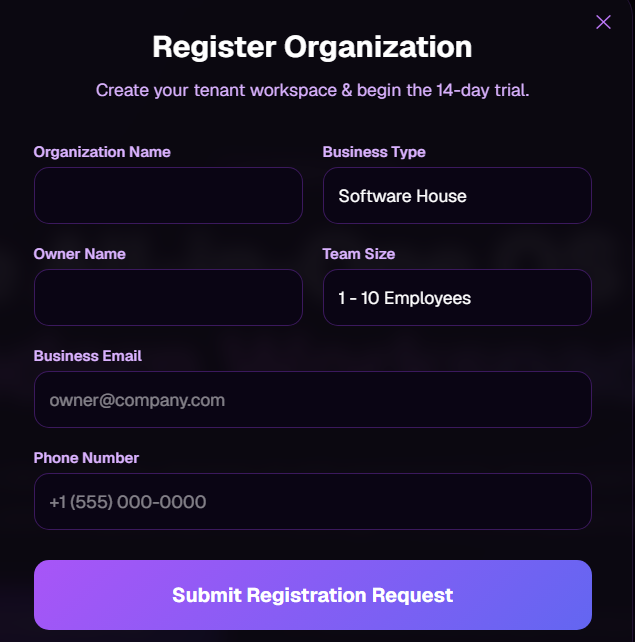
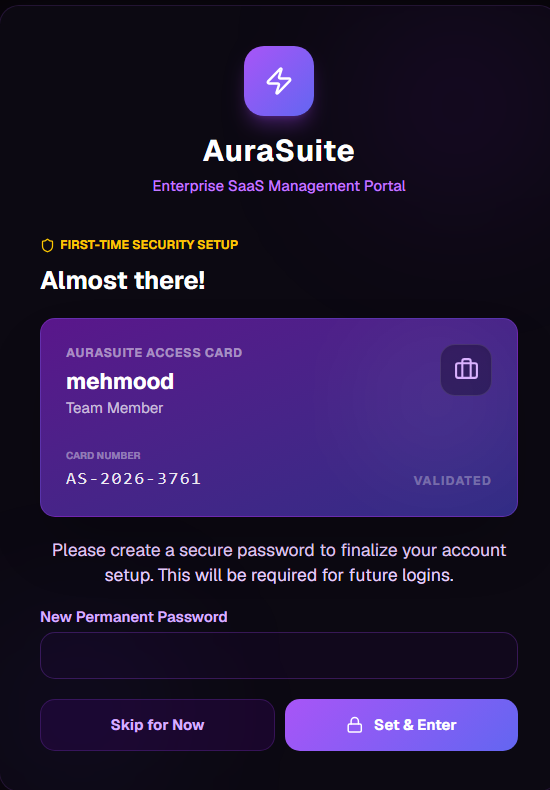
style: Fix 3D text animation, add real dashboard screenshots, make policy boxes equal height, update footer

diff --git a/frontend/app/page.js b/frontend/app/page.js
@@ -91,9 +91,9 @@ export default function LandingPage() {
       <div className="fixed inset-0 z-0 pointer-events-none transition-all duration-1000 ease-in-out">
         {bgImages.map((src, i) => (
           <img key={src} src={src} alt="Luxury Office Background" 
-               className={`absolute inset-0 w-full h-full object-cover transition-opacity duration-1000 object-center ${bgIndex === i ? 'opacity-20' : 'opacity-0'}`} />
+               className={`absolute inset-0 w-full h-full object-cover transition-opacity duration-1000 object-center ${bgIndex === i ? 'opacity-60' : 'opacity-0'}`} />
         ))}
-        <div className="absolute inset-0 bg-gradient-to-b from-[#05010a]/80 via-[#05010a]/90 to-[#05010a]"></div>
+        <div className="absolute inset-0 bg-gradient-to-b from-[#05010a]/50 via-[#05010a]/70 to-[#05010a]"></div>
       </div>
       
       <div className="fixed top-[-20%] left-[-10%] w-[50%] h-[50%] bg-purple-700/20 rounded-full blur-[150px] pointer-events-none z-0" />
@@ -111,6 +111,11 @@ export default function LandingPage() {
               @keyframes spin-slow {
                 0% { transform: rotateY(0deg); }
                 100% { transform: rotateY(360deg); }
+              }
+              @keyframes float-3d {
+                0% { transform: perspective(1000px) rotateX(15deg) rotateY(-10deg) translateZ(0px); }
+                50% { transform: perspective(1000px) rotateX(-5deg) rotateY(15deg) translateZ(30px); }
+                100% { transform: perspective(1000px) rotateX(15deg) rotateY(-10deg) translateZ(0px); }
               }
             `}</style>
           </div>
@@ -143,15 +148,20 @@ export default function LandingPage() {
           AuraSuite Premium is Live
         </div>
         
-        <h1 className="text-5xl md:text-7xl font-extrabold tracking-tight mb-8 leading-[1.1] flex flex-col items-center justify-center" style={{ textShadow: '0 10px 30px rgba(0,0,0,0.5)' }}>
-          The Ultimate OS for <br/>
-          <span className="text-transparent bg-clip-text bg-gradient-to-r from-purple-400 via-fuchsia-400 to-indigo-400" 
-                style={{ display: 'inline-block', transformStyle: 'preserve-3d', animation: 'spin-slow 8s linear infinite', padding: '10px 0' }}>
+        <h1 className="text-5xl md:text-7xl font-extrabold tracking-tight mb-8 leading-[1.1] flex flex-col items-center justify-center relative z-20">
+          <span style={{ textShadow: '0 10px 30px rgba(0,0,0,0.8)' }}>The Ultimate OS for</span> <br/>
+          <span className="text-transparent bg-clip-text bg-gradient-to-br from-purple-400 via-fuchsia-300 to-indigo-500 font-black tracking-wide" 
+                style={{ 
+                  display: 'inline-block', 
+                  animation: 'float-3d 6s ease-in-out infinite', 
+                  padding: '20px 0',
+                  filter: 'drop-shadow(0 20px 20px rgba(147, 51, 234, 0.4)) drop-shadow(0 0 10px rgba(255, 255, 255, 0.2))' 
+                }}>
             AuraSuite
           </span>
         </h1>
         
-        <p className="text-lg md:text-xl text-purple-200/80 max-w-3xl mx-auto mb-10 leading-relaxed font-light">
+        <p className="text-lg text-purple-200/90 max-w-2xl mx-auto mb-10 leading-relaxed font-medium" style={{ textShadow: '0 2px 10px rgba(0,0,0,0.8)' }}>
           Experience world-class software house management. From client vaults and AI metrics to strict access control and real-time activity tracking, packed in a breathtaking glassmorphism design.
         </p>
 
@@ -228,98 +238,140 @@ export default function LandingPage() {
         </div>
       </section>
 
-      {/* ── PORTALS SHOWCASE ── */}
-      <section id="features" className="py-24 px-6 relative z-10">
-        <div className="max-w-7xl mx-auto">
-          <div className="text-center mb-16">
-            <h2 className="text-3xl md:text-5xl font-bold mb-4">Three Interconnected Portals</h2>
-            <p className="text-purple-300">Dedicated interfaces designed specifically for your Admins, Workers, and Clients.</p>
+      {/* ── FEATURES SECTION (Three Interconnected Portals) ── */}
+      <section id="features" className="py-24 px-6 relative z-10 bg-[#0a0514]">
+        <div className="max-w-7xl mx-auto text-center mb-16">
+          <h2 className="text-3xl md:text-5xl font-bold mb-4">Three Interconnected Portals</h2>
+          <p className="text-purple-300">Dedicated interfaces designed specifically for your Admins, Workers, and Clients, packed with industry-leading features.</p>
+        </div>
+        
+        <div className="max-w-6xl mx-auto grid grid-cols-1 md:grid-cols-3 gap-8">
+          <div className="bg-[#11081c] border border-purple-500/20 rounded-2xl p-8 hover:border-purple-500/50 transition-all hover:transform hover:-translate-y-2 flex flex-col h-full shadow-[0_10px_30px_rgba(0,0,0,0.5)]">
+            <div className="w-12 h-12 rounded-xl bg-purple-900/30 flex items-center justify-center mb-6 border border-purple-500/30">
+              <Server className="text-purple-400" />
+            </div>
+            <h3 className="text-xl font-bold text-white mb-4">Admin Master Cabinet</h3>
+            <p className="text-sm text-purple-200/80 leading-relaxed mb-4">
+              Complete oversight over your entire organization. Manage users, track active sessions, and oversee operations in real-time.
+            </p>
+            <ul className="text-sm text-purple-300/90 space-y-2 list-disc pl-4 mt-auto">
+              <li>Live Active User Logs & Session Tracking</li>
+              <li>Zoom-like Master WebRTC Video Controls</li>
+              <li>AI-Suggested Payment & Salary Adjustments</li>
+              <li>Dynamic Department & Team Size Management</li>
+            </ul>
           </div>
 
-          <div className="grid grid-cols-1 md:grid-cols-3 gap-8">
-            <div className="bg-gradient-to-b from-[#11081c] to-[#0a0514] border border-purple-500/20 rounded-3xl p-8 hover:border-purple-400/50 transition-colors">
-              <div className="w-12 h-12 rounded-xl bg-purple-900/50 flex items-center justify-center mb-6 border border-purple-500/30">
-                <Server className="text-purple-300" />
-              </div>
-              <h3 className="text-xl font-bold text-white mb-3">Admin Master Cabinet</h3>
-              <p className="text-sm text-purple-200/80 mb-6">Complete oversight with live active user logs, Zoom-like master meeting controls, and AI-suggested payment adjustments.</p>
+          <div className="bg-[#11081c] border border-indigo-500/20 rounded-2xl p-8 hover:border-indigo-500/50 transition-all hover:transform hover:-translate-y-2 flex flex-col h-full shadow-[0_10px_30px_rgba(0,0,0,0.5)]">
+            <div className="w-12 h-12 rounded-xl bg-indigo-900/30 flex items-center justify-center mb-6 border border-indigo-500/30">
+              <Shield className="text-indigo-400" />
             </div>
+            <h3 className="text-xl font-bold text-white mb-4">Worker Portal</h3>
+            <p className="text-sm text-purple-200/80 leading-relaxed mb-4">
+              A dedicated, distraction-free environment for your employees to work, track their hours, and securely communicate.
+            </p>
+            <ul className="text-sm text-purple-300/90 space-y-2 list-disc pl-4 mt-auto">
+              <li>Digital Access Card Authentication (Gold/Silver)</li>
+              <li>Dynamic AI Technical Onboarding Quizzes</li>
+              <li>Real-time Secure Personal DM Chats</li>
+              <li>Automated Hours Tracking & Auto-Lock</li>
+            </ul>
+          </div>
 
-            <div className="bg-gradient-to-b from-[#11081c] to-[#0a0514] border border-purple-500/20 rounded-3xl p-8 hover:border-purple-400/50 transition-colors">
-              <div className="w-12 h-12 rounded-xl bg-indigo-900/50 flex items-center justify-center mb-6 border border-indigo-500/30">
-                <Shield className="text-indigo-300" />
-              </div>
-              <h3 className="text-xl font-bold text-white mb-3">Worker Portal</h3>
-              <p className="text-sm text-purple-200/80 mb-6">Digital Access Card authentication, dynamic AI technical onboarding quizzes, and real-time personal DM chats.</p>
+          <div className="bg-[#11081c] border border-pink-500/20 rounded-2xl p-8 hover:border-pink-500/50 transition-all hover:transform hover:-translate-y-2 flex flex-col h-full shadow-[0_10px_30px_rgba(0,0,0,0.5)]">
+            <div className="w-12 h-12 rounded-xl bg-pink-900/30 flex items-center justify-center mb-6 border border-pink-500/30">
+              <Cloud className="text-pink-400" />
             </div>
-
-            <div className="bg-gradient-to-b from-[#11081c] to-[#0a0514] border border-purple-500/20 rounded-3xl p-8 hover:border-purple-400/50 transition-colors">
-              <div className="w-12 h-12 rounded-xl bg-fuchsia-900/50 flex items-center justify-center mb-6 border border-fuchsia-500/30">
-                <Cloud className="text-fuchsia-300" />
-              </div>
-              <h3 className="text-xl font-bold text-white mb-3">Client Sandbox</h3>
-              <p className="text-sm text-purple-200/80 mb-6">Live in-app project staging previews, AI-generated daily summaries, and secure payment-gated file unlocking.</p>
-            </div>
+            <h3 className="text-xl font-bold text-white mb-4">Client Sandbox</h3>
+            <p className="text-sm text-purple-200/80 leading-relaxed mb-4">
+              Give your clients complete transparency with a premium sandbox to view project progress, invoices, and milestones.
+            </p>
+            <ul className="text-sm text-purple-300/90 space-y-2 list-disc pl-4 mt-auto">
+              <li>Live In-App Project Staging Previews</li>
+              <li>AI-Generated Daily Progress Summaries</li>
+              <li>Secure Payment-Gated File Unlocking</li>
+              <li>Direct Encrypted Chat with Admins</li>
+            </ul>
           </div>
         </div>
       </section>
 
       {/* ── PRIVACY & RULES SECTION ── */}
       <section id="privacy" className="py-24 px-6 relative z-10 bg-gradient-to-t from-[#0a0514] to-[#11081c]/50">
-        <div className="max-w-5xl mx-auto grid grid-cols-1 md:grid-cols-2 gap-12 items-start">
-          <div className="bg-[#11081c] border border-red-500/20 rounded-3xl p-10 shadow-[0_0_40px_rgba(239,68,68,0.05)]">
+        <div className="max-w-6xl mx-auto grid grid-cols-1 md:grid-cols-2 gap-8 items-stretch">
+          
+          <div className="bg-[#11081c] border border-red-500/30 rounded-3xl p-10 shadow-[0_0_40px_rgba(239,68,68,0.1)] flex flex-col h-full">
             <div className="flex items-center gap-4 mb-6">
               <div className="w-12 h-12 rounded-xl bg-red-900/30 flex items-center justify-center border border-red-500/30">
                 <Shield className="text-red-400" />
               </div>
               <h2 className="text-2xl font-bold text-white">Strict Privacy & Suspension Policy</h2>
             </div>
-            <div className="space-y-6 text-purple-200/80 text-sm leading-relaxed">
+            <div className="space-y-6 text-purple-200/90 text-sm leading-relaxed flex-1">
               <p>
-                <strong>1. Absolute Privacy Standards:</strong> AuraSuite employs advanced end-to-end encryption for all organization data. Messages, client files, source code staging, and financial business logic are fully isolated per tenant. Your data is never shared with third-party vendors.
+                <strong className="text-white">1. Absolute Privacy Standards:</strong> AuraSuite employs advanced end-to-end encryption for all organization data. Messages, client files, source code staging, and financial business logic are fully isolated per tenant. Your data is never shared with third-party vendors, ensuring top-tier enterprise privacy.
               </p>
               <div>
-                <strong>2. Suspension Criteria:</strong> A registered Software House, Academy, or Factory can be suspended instantly without notice if they engage in:
-                <ul className="list-disc pl-6 space-y-2 mt-2 text-red-300/80">
+                <strong className="text-white">2. Suspension Criteria:</strong> A registered Software House, Academy, or Factory can be suspended instantly without notice if they engage in:
+                <ul className="list-disc pl-6 space-y-3 mt-4 text-red-300/90 font-medium">
                   <li>Fraudulent activities, scamming clients out of payments, or failing to deliver verified milestones after collecting funds.</li>
                   <li>Attempting to bypass, reverse-engineer, or manipulate the built-in tracking, video monitoring, and automated attendance systems.</li>
                   <li>Registering with a fake identification (CNIC) or providing misleading legal organization details during the initial approval phase.</li>
                 </ul>
               </div>
               <p>
-                <strong>3. Master Super Admin Authority:</strong> The overarching Super Admin reserves the ultimate right to suspend, ban, or investigate any registered portal if malicious behavior or violation of the terms of service is detected on the network.
+                <strong className="text-white">3. Master Super Admin Authority:</strong> The overarching Super Admin reserves the ultimate right to suspend, ban, or investigate any registered portal if malicious behavior or violation of the terms of service is detected on the network, keeping the ecosystem completely safe.
               </p>
             </div>
           </div>
           
-          <div className="bg-gradient-to-br from-purple-900/10 to-indigo-900/10 border border-purple-500/20 rounded-3xl p-10 shadow-[0_0_40px_rgba(147,51,234,0.05)]">
+          <div className="bg-gradient-to-br from-[#11081c] to-indigo-900/10 border border-purple-500/30 rounded-3xl p-10 shadow-[0_0_40px_rgba(147,51,234,0.1)] flex flex-col h-full">
             <div className="flex items-center gap-4 mb-6">
               <div className="w-12 h-12 rounded-xl bg-purple-900/30 flex items-center justify-center border border-purple-500/30">
-                <Cloud className="text-purple-400" />
+                <Server className="text-purple-400" />
               </div>
-              <h2 className="text-2xl font-bold text-white">Platform Features</h2>
+              <h2 className="text-2xl font-bold text-white">Advanced Platform Features</h2>
             </div>
-            <div className="space-y-6 text-purple-200/80 text-sm leading-relaxed">
+            <div className="space-y-6 text-purple-200/90 text-sm leading-relaxed flex-1">
               <p>
-                <strong>The Ultimate Master Control:</strong> Once approved, your organization gains access to a dedicated tenant workspace. The Super Admin of your organization controls the entire ecosystem—from creating sub-admins and managers to assigning specific worker roles.
+                <strong className="text-white">The Ultimate Master Control:</strong> Once approved, your organization gains access to a dedicated tenant workspace. The Super Admin of your organization controls the entire ecosystem—from creating sub-admins and managers to assigning specific worker roles and configuring complex multi-mode setups.
               </p>
               <p>
-                <strong>Client & Student Vaults:</strong> Invite external clients or students to their own restricted sandbox portals via secure Magic Links and digital cards. Clients can securely view their staging projects, read daily AI summaries, and unlock payment-gated deliverables.
+                <strong className="text-white">Client & Student Vaults:</strong> Invite external clients or students to their own restricted sandbox portals via secure Magic Links and digital cards. Clients can securely view their staging projects, read daily AI summaries, and unlock payment-gated deliverables using dynamic invoice triggers.
               </p>
               <p>
-                <strong>Realtime Monitoring & Automation:</strong> Experience 24/7 autonomous management. AuraSuite tracks active sessions, monitors live WebRTC meetings, issues AI skill assessments automatically, and strictly manages working hours to auto-lock the portal out-of-hours.
+                <strong className="text-white">Realtime Monitoring & Automation:</strong> Experience true 24/7 autonomous management. AuraSuite tracks active sessions via WebSocket, monitors live WebRTC meetings, issues AI skill assessments automatically based on job titles, and strictly manages working hours to auto-lock the portal out-of-hours, preventing unauthorized off-hours access.
               </p>
             </div>
           </div>
+
         </div>
       </section>
 
       {/* ── FOOTER ── */}
-      <footer className="border-t border-purple-500/10 py-10 text-center relative z-10">
-        <div className="flex items-center justify-center gap-2 mb-4 opacity-50">
-          <Zap size={16} /> <span className="font-bold tracking-widest">AURASUITE</span>
+      <footer className="border-t border-purple-500/20 bg-[#05010a] py-12 px-6 relative z-10">
+        <div className="max-w-7xl mx-auto flex flex-col md:flex-row justify-between items-center gap-6">
+          <div className="flex items-center gap-3">
+            <div className="w-8 h-8 rounded-lg bg-gradient-to-br from-purple-600 to-indigo-600 flex items-center justify-center">
+              <Zap className="text-white" size={16} />
+            </div>
+            <span className="font-bold text-lg tracking-wide text-white">AuraSuite</span>
+          </div>
+          
+          <div className="flex gap-8 text-sm text-purple-300/80">
+            <a href="#features" className="hover:text-purple-400 transition-colors">Features</a>
+            <a href="#privacy" className="hover:text-purple-400 transition-colors">Privacy Policy</a>
+            <a href="#" className="hover:text-purple-400 transition-colors">Terms of Service</a>
+            <a href="#" className="hover:text-purple-400 transition-colors">Contact Support</a>
+          </div>
+
+          <div className="text-sm font-medium text-purple-300/60 bg-[#11081c] px-4 py-2 rounded-full border border-purple-500/20">
+            For inquiries, contact: <span className="text-white font-bold tracking-wider">03703603184</span>
+          </div>
         </div>
-        <p className="text-xs text-purple-500/50">© 2026 AuraSuite Inc. All rights reserved.</p>
+        <div className="mt-8 text-center text-xs text-purple-400/40">
+          &copy; {new Date().getFullYear()} AuraSuite Inc. All rights reserved. The ultimate OS for luxury workspaces.
+        </div>
       </footer>
 
       {/* ── REGISTRATION MODAL ── */}
